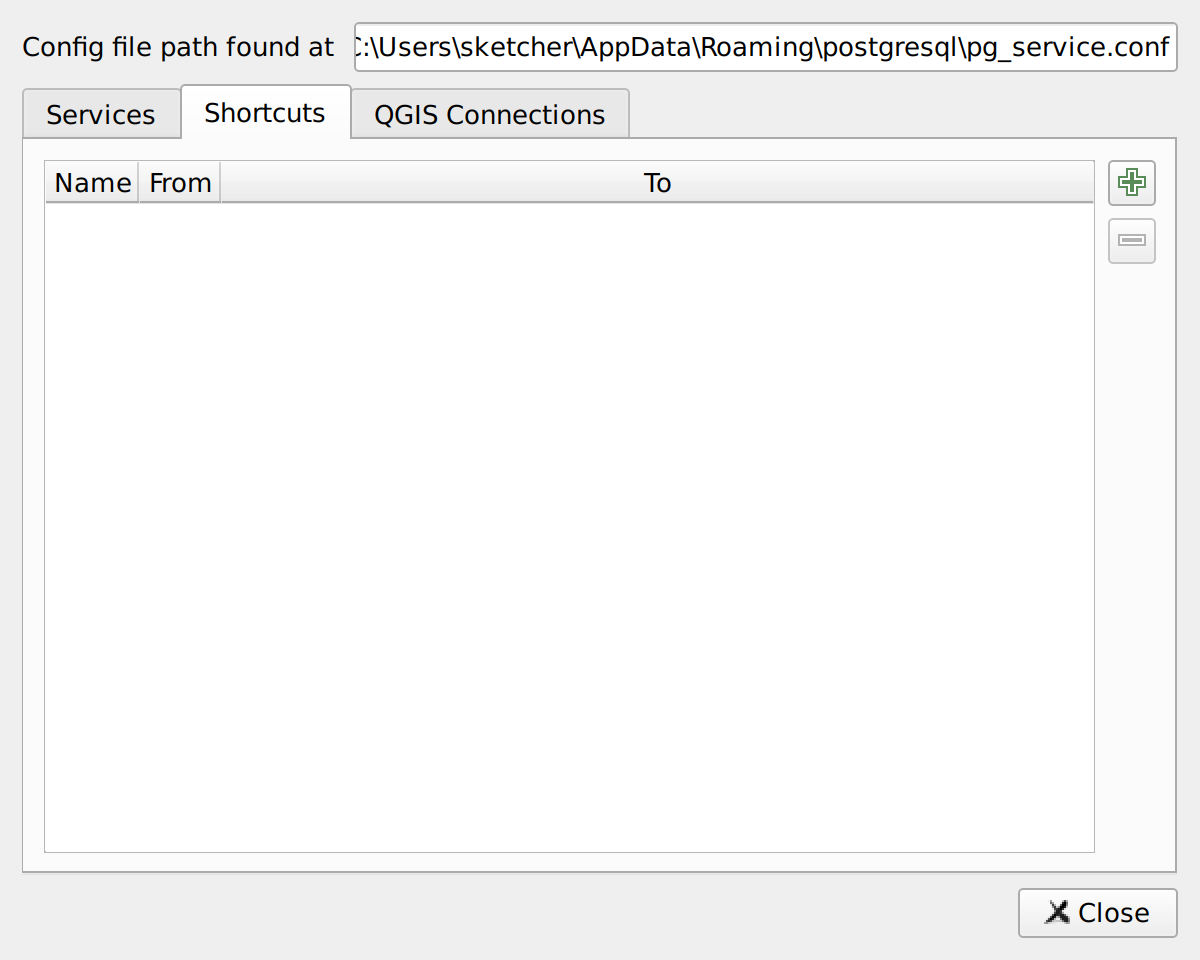
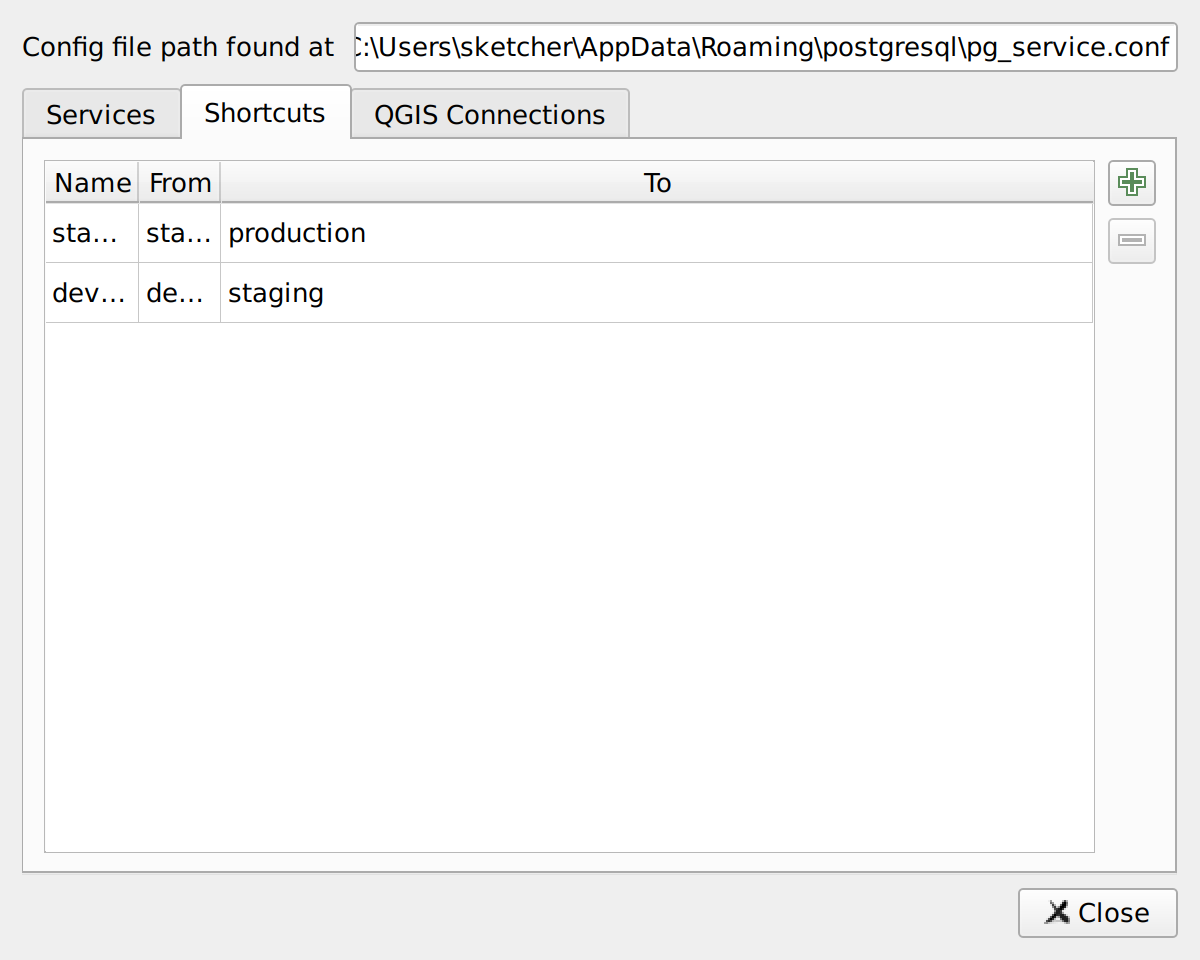
screenshots

diff --git a/scripts/screenshots.py b/scripts/screenshots.py
@@ -255,11 +255,19 @@ def step_context_menu(dlg):
     menu.close()
 
 
-def step_shortcuts_tab(dlg):
-    """Capture the shortcuts tab."""
+def step_shortcuts_tab(dlg, shortcuts_model):
+    """Capture the shortcuts tab with pre-populated shortcuts."""
+    # Add sample shortcuts so the tab isn't empty
+    shortcuts_model.add_shortcut("staging", "production")
+    shortcuts_model.add_shortcut("development", "staging")
+
     dlg.tabWidget.setCurrentIndex(1)
     QApplication.processEvents()
     _grab(dlg, "shortcuts_tab.png")
+
+    # Clean up the shortcuts we just added
+    while shortcuts_model.rowCount():
+        shortcuts_model.remove_shortcut(shortcuts_model.index(0, 0))
 
 
 def step_connections_tab(dlg):
@@ -316,7 +324,7 @@ def main():
     step_context_menu(dlg)
 
     print("  03 Shortcuts tab...")
-    step_shortcuts_tab(dlg)
+    step_shortcuts_tab(dlg, shortcuts_model)
 
     print("  04 Connections tab...")
     step_connections_tab(dlg)

diff --git a/docs/docs/usage/shortcuts.md b/docs/docs/usage/shortcuts.md
@@ -1,5 +1,28 @@
 # Shortcuts
 
-If you perform the same overwrite operation regularly (e.g., switching from one service definition to another while preserving the name), you can add **Shortcuts**. These give you a handy way to execute the same copy from the plugin toolbar button or from the **Database** menu.
+Shortcuts let you quickly copy all settings from one PG service to another. This is useful when you regularly overwrite a service definition — for example, pointing your `production` service to a `staging` configuration for testing, then switching it back.
+
+Once created, shortcuts are accessible from the plugin **toolbar button** dropdown and from the **Database** menu, so you can execute them without even opening the dialog.
+
+## Creating a shortcut
+
+1. Open the plugin dialog and go to the **Shortcuts** tab.
+2. Click the **+** button to add a new shortcut.
+3. In the **From** column, select the source service from the dropdown.
+4. In the **To** column, select the target service from the dropdown.
+5. The **Name** column is auto-filled as `"source → target"` but can be edited to any label you prefer.
 
 ![Shortcuts tab](../assets/images/screenshots/shortcuts_tab.png)
+
+## Executing a shortcut
+
+When you run a shortcut, all settings from the **From** service are copied into the **To** service, overwriting its existing values. You can trigger a shortcut in two ways:
+
+- From the **toolbar button** — click the dropdown arrow next to the plugin icon.
+- From the **Database** menu → **PG service parser** submenu.
+
+If either the source or target service no longer exists in your `pg_service.conf`, the shortcut action will be disabled.
+
+## Removing a shortcut
+
+Select a shortcut row and click the **−** button. A confirmation dialog will appear before deletion.

diff --git a/docs/docs/usage.md b/docs/docs/usage.md
@@ -1,0 +1,3 @@
+# Usage
+
+Open the plugin from the **Database** menu or the toolbar icon.
